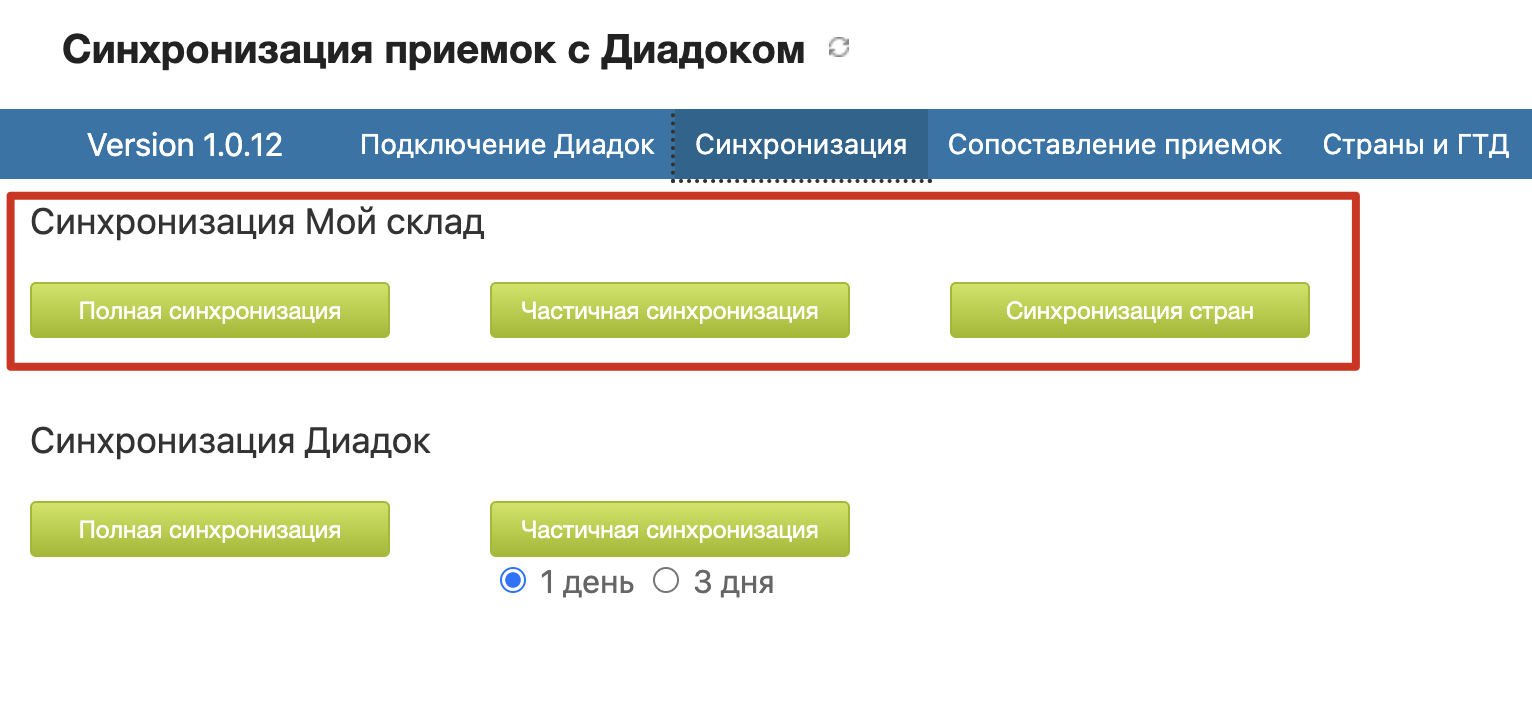
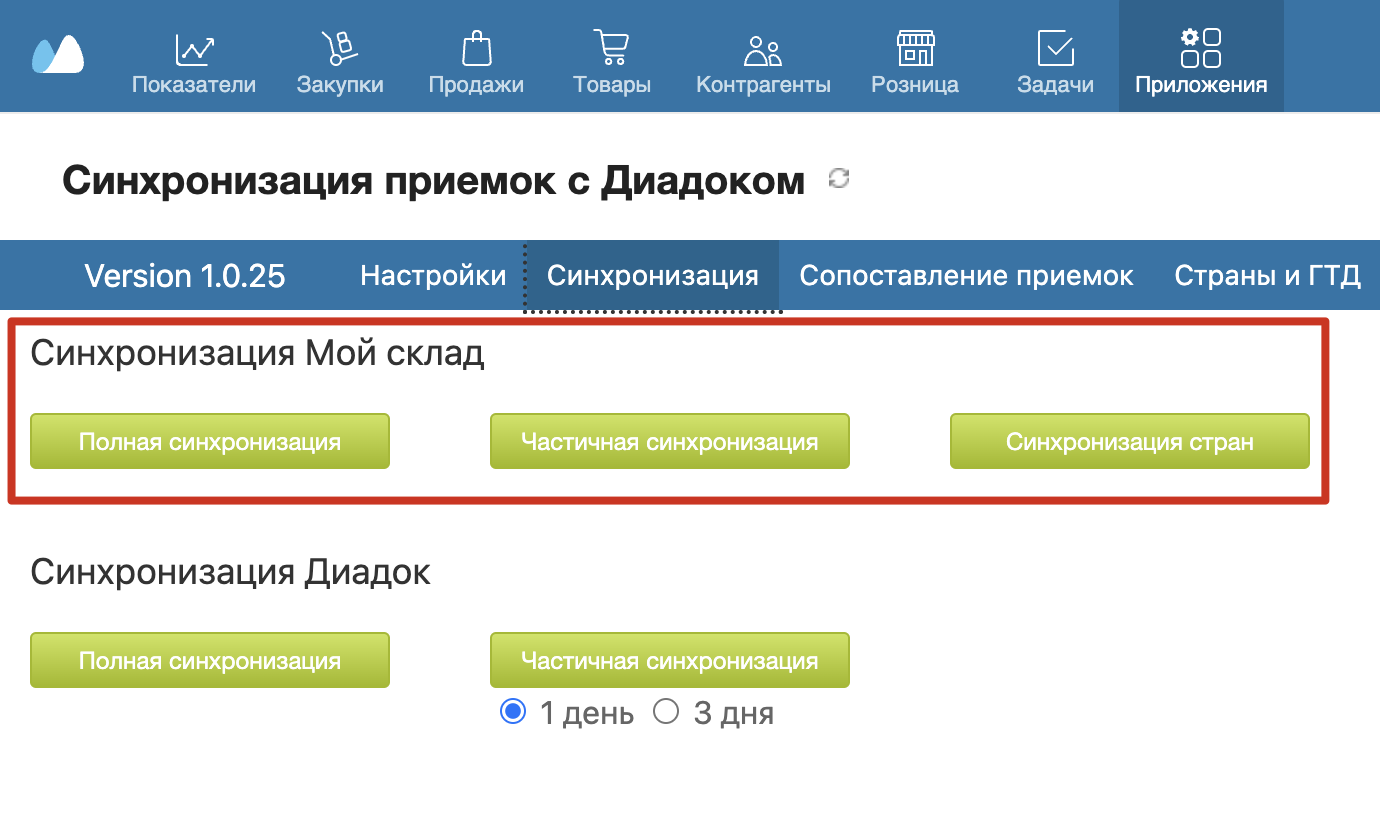
Update instruction

diff --git a/index.html b/index.html
@@ -42,7 +42,7 @@
         <h2 class="title">Инструкция</h2>
         <div class="step">
           <h3 class="sub-title"><span class="red">Шаг 1</span> Авторизация в Диадок</h3>
-          <p>На вкладке <b>Подключение Диадок</b> следует авторизоваться в Диадок</p>
+          <p>На вкладке <b>Настройки</b> следует авторизоваться в Диадок</p>
           <p>Для этого вам потребуются следующие данные
           <ol class="list-num">
             <li><b>Логин от Диадок</b></li>
@@ -81,13 +81,15 @@
           <h3 class="sub-title"><span class="red">Шаг 3</span> Сопоставление приемок</h3>
           <p>На вкладке <b>Сопоставление приемок</b> отображаются сопоставленные документы (Приемки).</p>
           <h4 class="blue">Фильтрация данных</h4>
+          <img class="img-screen" src="img/filter.png" alt="Фильтр">
           <p>Данные на странице отображаются за определенный период времени</p>
           <p>Период можно выбрать из уже предустановленных или задать вручную выбрав соответсвующий пункт в выпадающем списке</p>
-          <p>После изменения периода нажмите кнопкку <b>Применить</b> чтобы данные на странице обновились</p>
-          <p>Так же имеется возможность исключить из выборки документы Диадок со статусами <b>Подписан</b> или <b>Аннулирован</b> <br>
-              Статусы документов обновляются в процессе Синхронизации (полной или частичной)
-          </p>
-          <img class="img-screen" src="img/filter.png" alt="Фильтр">
+          <p>Форма с фильтром "Реактивная" - изменения происходят сразу после выбора нужного значения из списка
+          <p>Кнопка <b>Применить</b> доступна только в режиме <i>"Задать вручную"</i> После ввода значений в поля с датой нажмите на кнопку <b>Применить</b> и данные обновятся.</p>
+          <p>Так же имеется возможность исключить из выборки подписанные документы. </p>
+          <p>Подписанными документами считаются такие документы у которых статус соответствует статусу выбранному на вкладке <b>Настройки</b></p>
+          <img class="img-screen" src="img/Settings.png" alt="Настройки">
+          <p>Статусы документов обновляются в процессе Синхронизации (полной или частичной)</p>
           <h4 class="blue">Отображение данных</h4>
           <p>Вся информация разделена на 5 таблиц </p>
           <ol class="list-num">
@@ -105,6 +107,9 @@
             <li><b>Дата документа</b></li>
             <li><b>Сумма</b></li>
             <li><b>Названия товаров</b></li>
+            <li><b>Подзаголовок в таблице</b> - группирует все позиции относящиеся к одной накладной. <br>
+             При клике по подзаголовку можно скрывать/отображать все позиции, которые относятся к данной накладной.
+            </li>
           </ol>
           <img class="img-screen" src="img/table.png" alt="Таблица">
           <p><span class="green">Для подтверждения сопоставления</span> кликните по кнопке со стрелочками <b><--></b> в нужной строке таблицы</p>
@@ -119,6 +124,11 @@
           <p>Записи можно будет сопоставить только в том случая если сумма будет одинаковая</p>
           <p>Чтобы отменить выделение повторно кликните по записи</p>
           <img class="img-screen" src="img/select.png" alt="Ручное сопоставление">
+          <p><span class="green">Для подписания документа</span> кликните по надписи <b>Изменить статус на ...</b> в подзаголовке в таблицы <b>Сопоставленные записи</b></p>
+          <p>Статус накладной указанной в подзаголовке таблицы изменится на статус выбранный на вкладке <b>Настройки</b></p>
+          <p>Изменять статус можно только в таблице <b>Сопоставленные записи</b> и только в том случае если все позиции в накладной подтверждены (находятся в данной таблице)</p>
+          <p>Зеленый цвет подзаголовка сигнализирует что все позиции в данной накладной подтверждены, а желтый, что остались не подтвержденные позиции</p>
+          <img class="img-screen" src="img/signature.png" alt="Подписание">
         </div>
 
         <div class="step">
